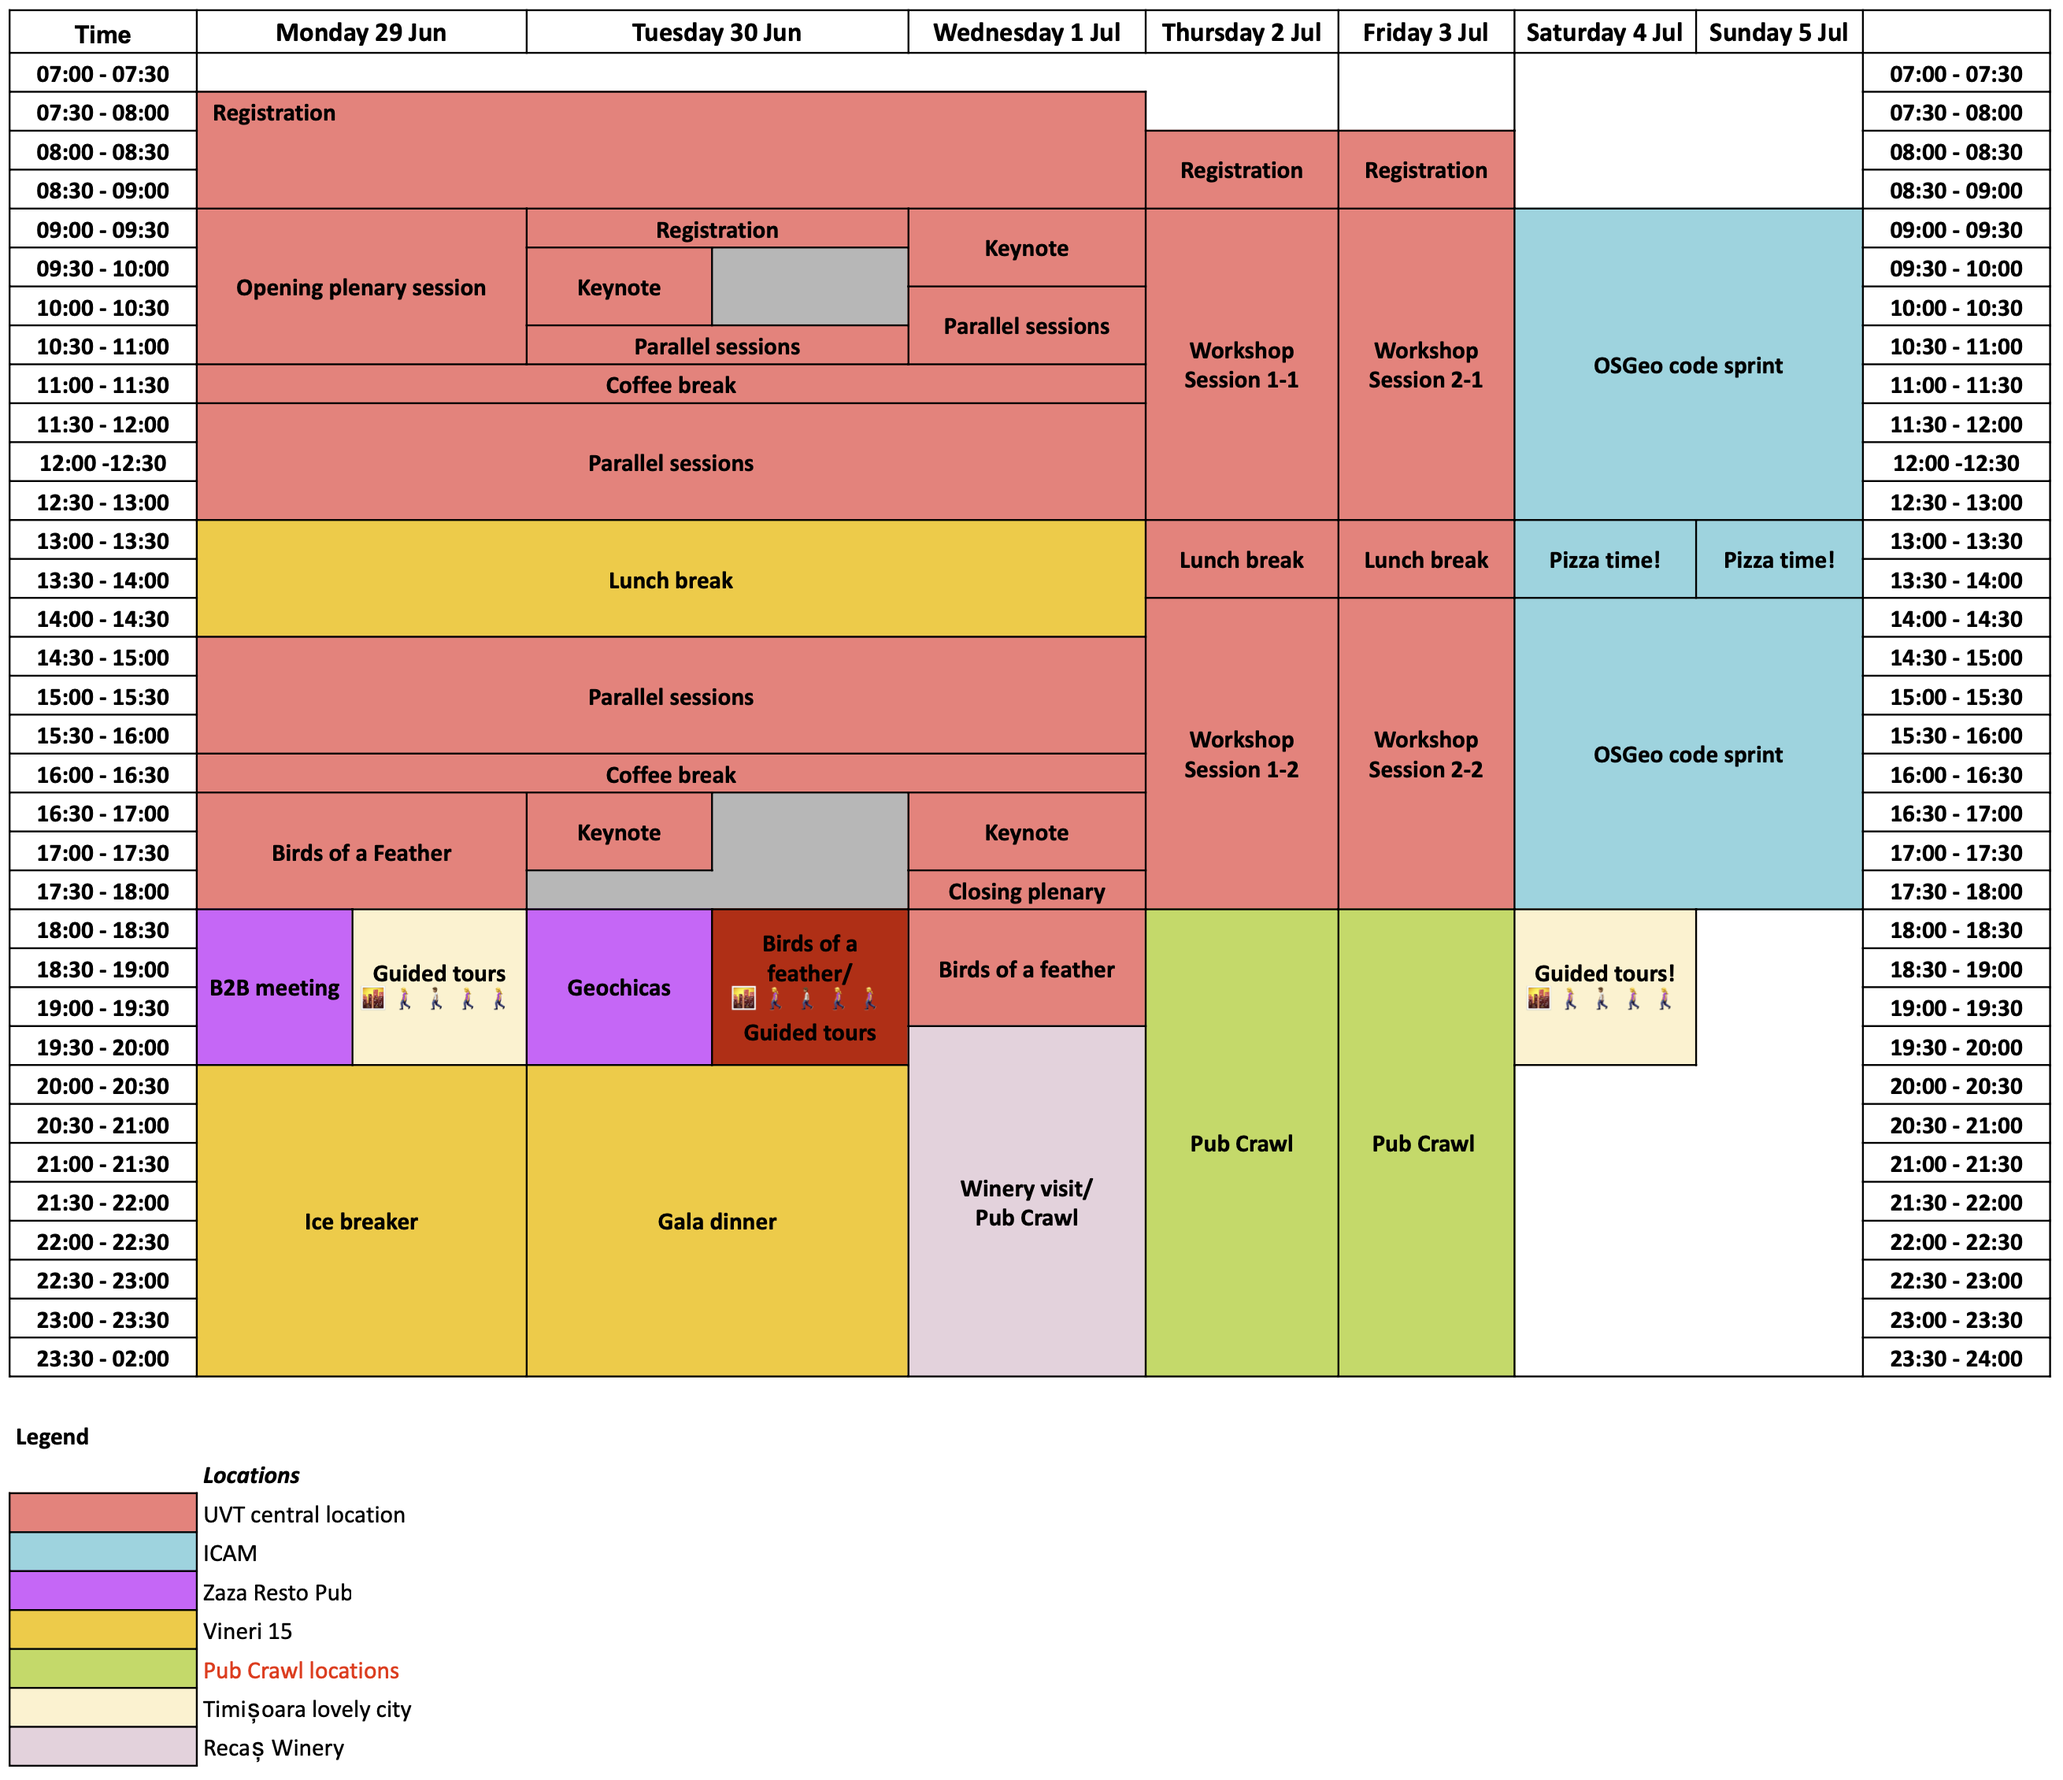
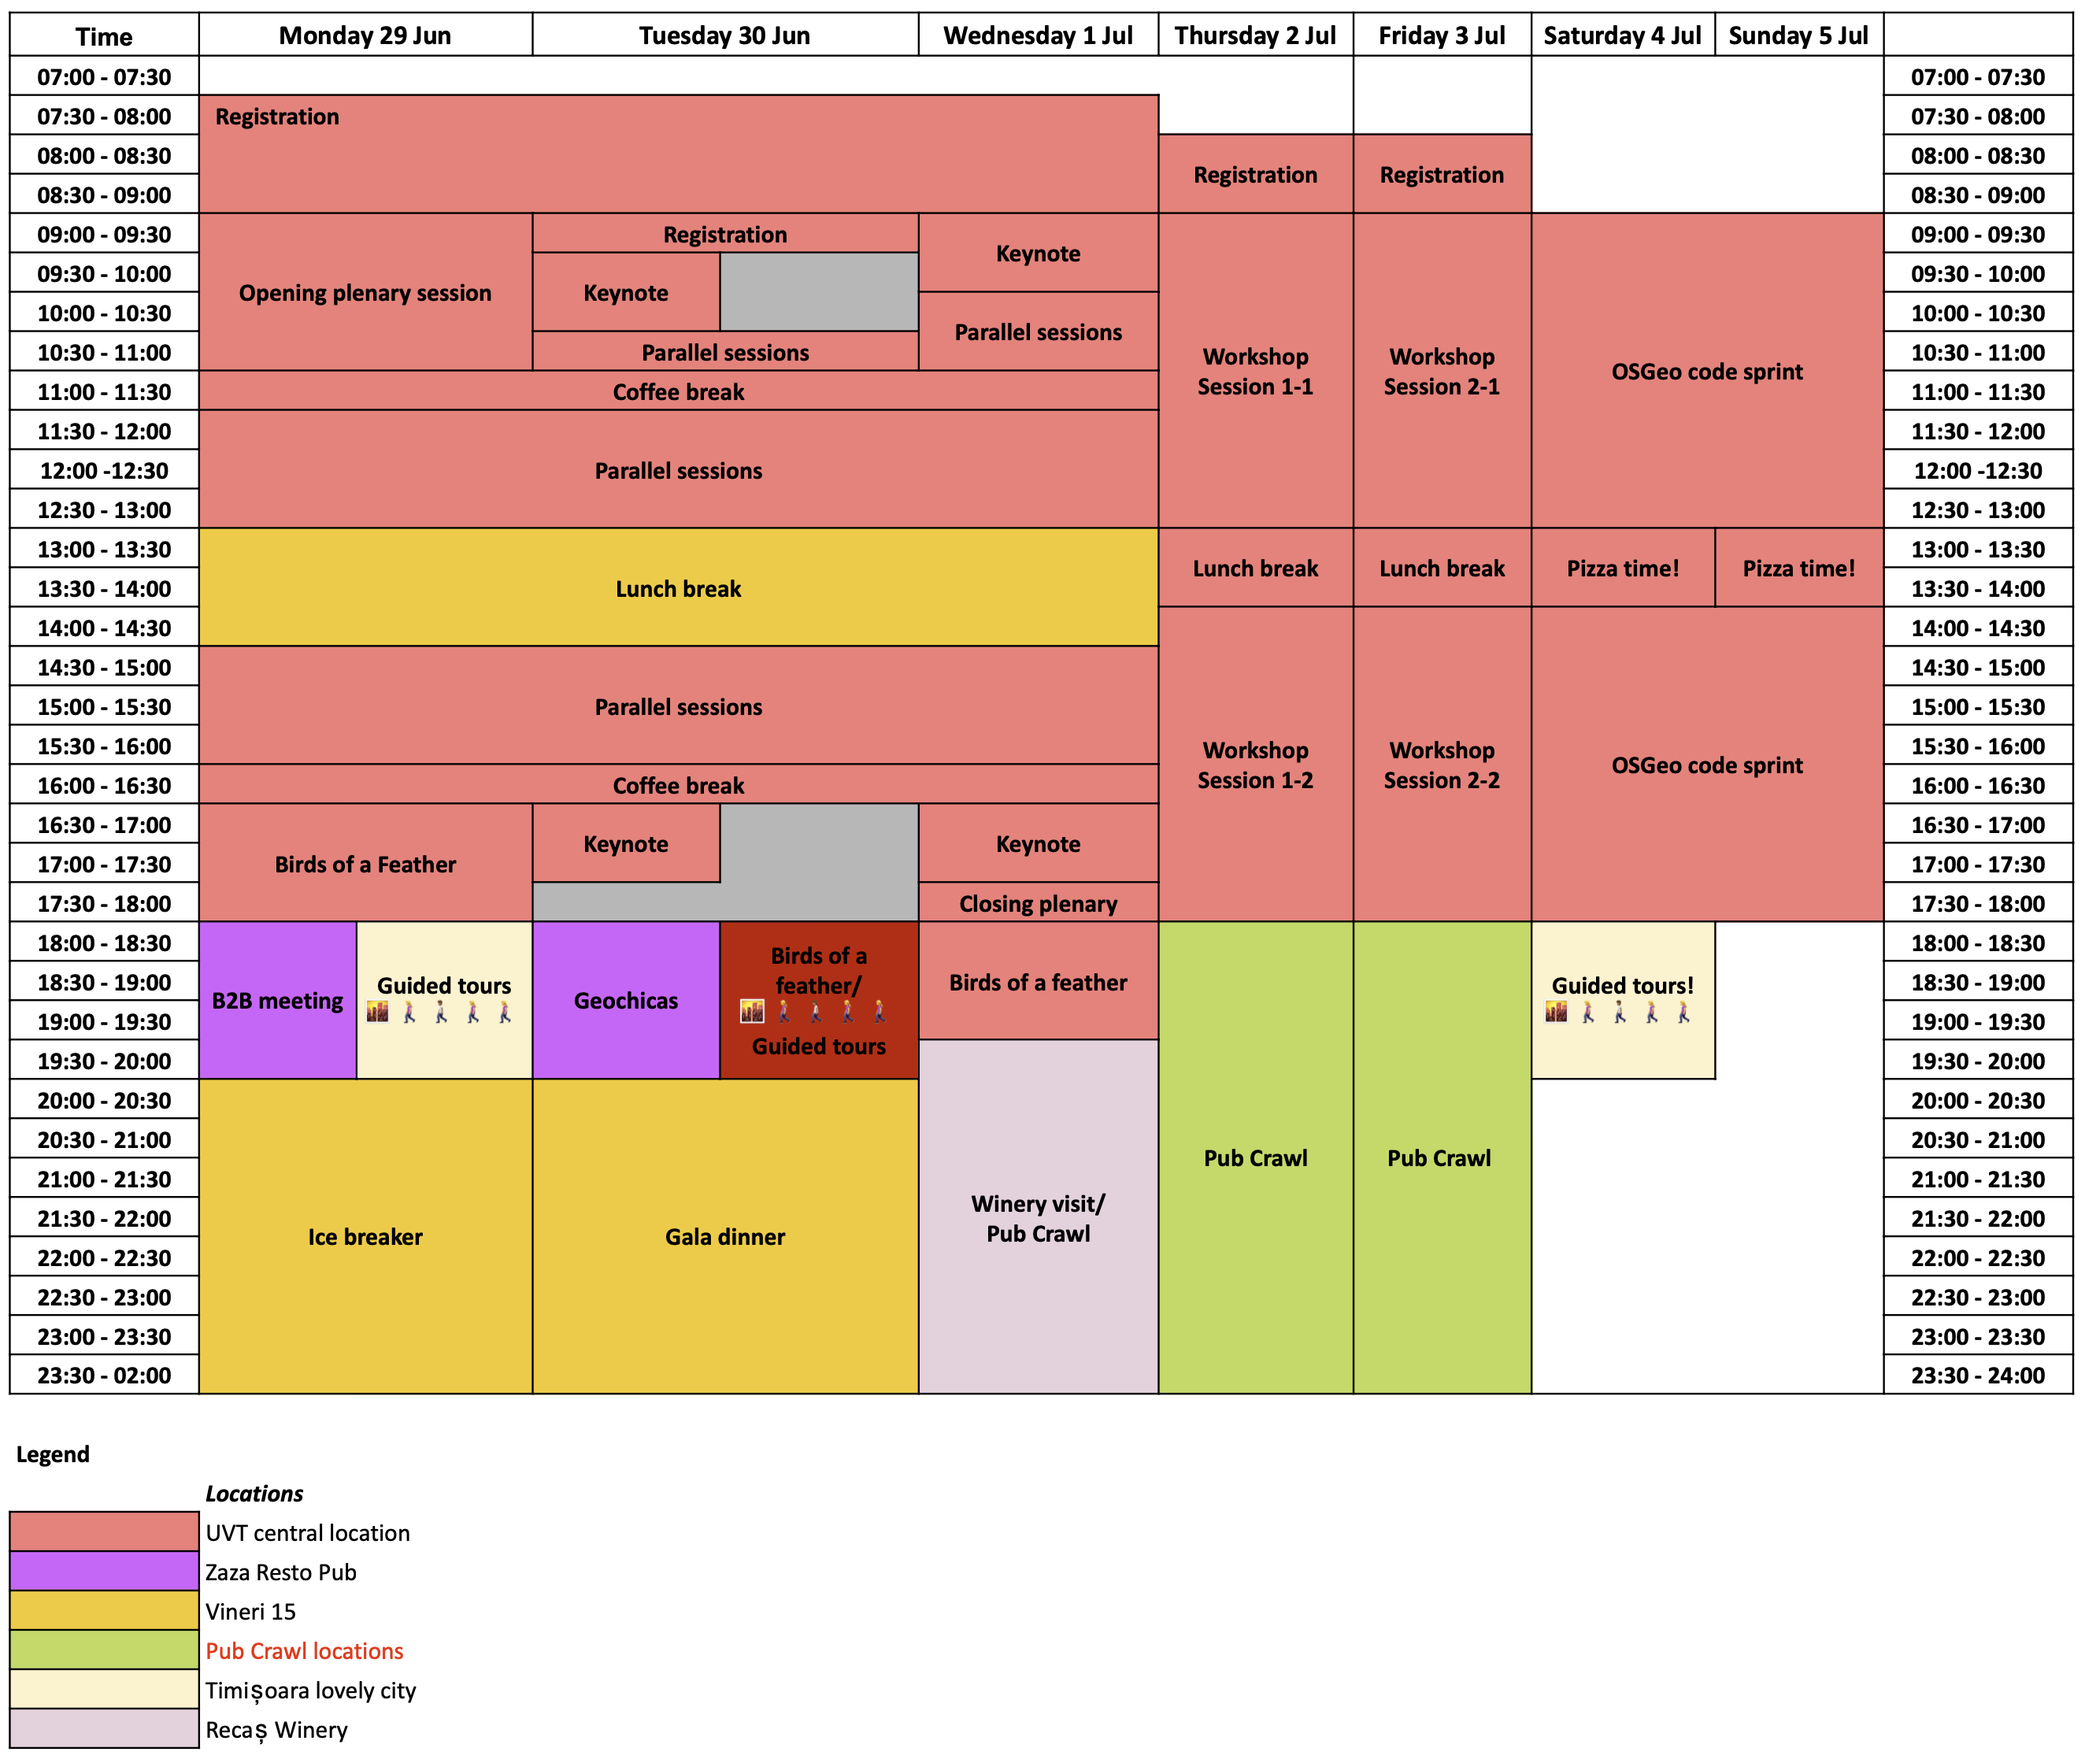
Update about community sprint

diff --git a/content/schedule/community-sprint.md b/content/schedule/community-sprint.md
@@ -22,7 +22,7 @@ the community sprint.
 
 Although participation in the sprint is free of charge, registration details will be published closer to the event.
 
-Location: [Institute of Advanced Environmental Research (ICAM) - Oituz 4c](https://www.openstreetmap.org/way/685059731)
+Location: ~~Institute of Advanced Environmental Research (ICAM) - Oituz 4c~~ [West University of Timișoara, rooms 003 and 104.](https://www.openstreetmap.org/way/97929100#map=18/45.747220/21.231291)
 
 {{< figure
     src="https://wiki.osgeo.org/w/images/0/08/FOSS4G_2016_OSGeo_Code_Sprint_indoor_hacking_overview.jpg"
